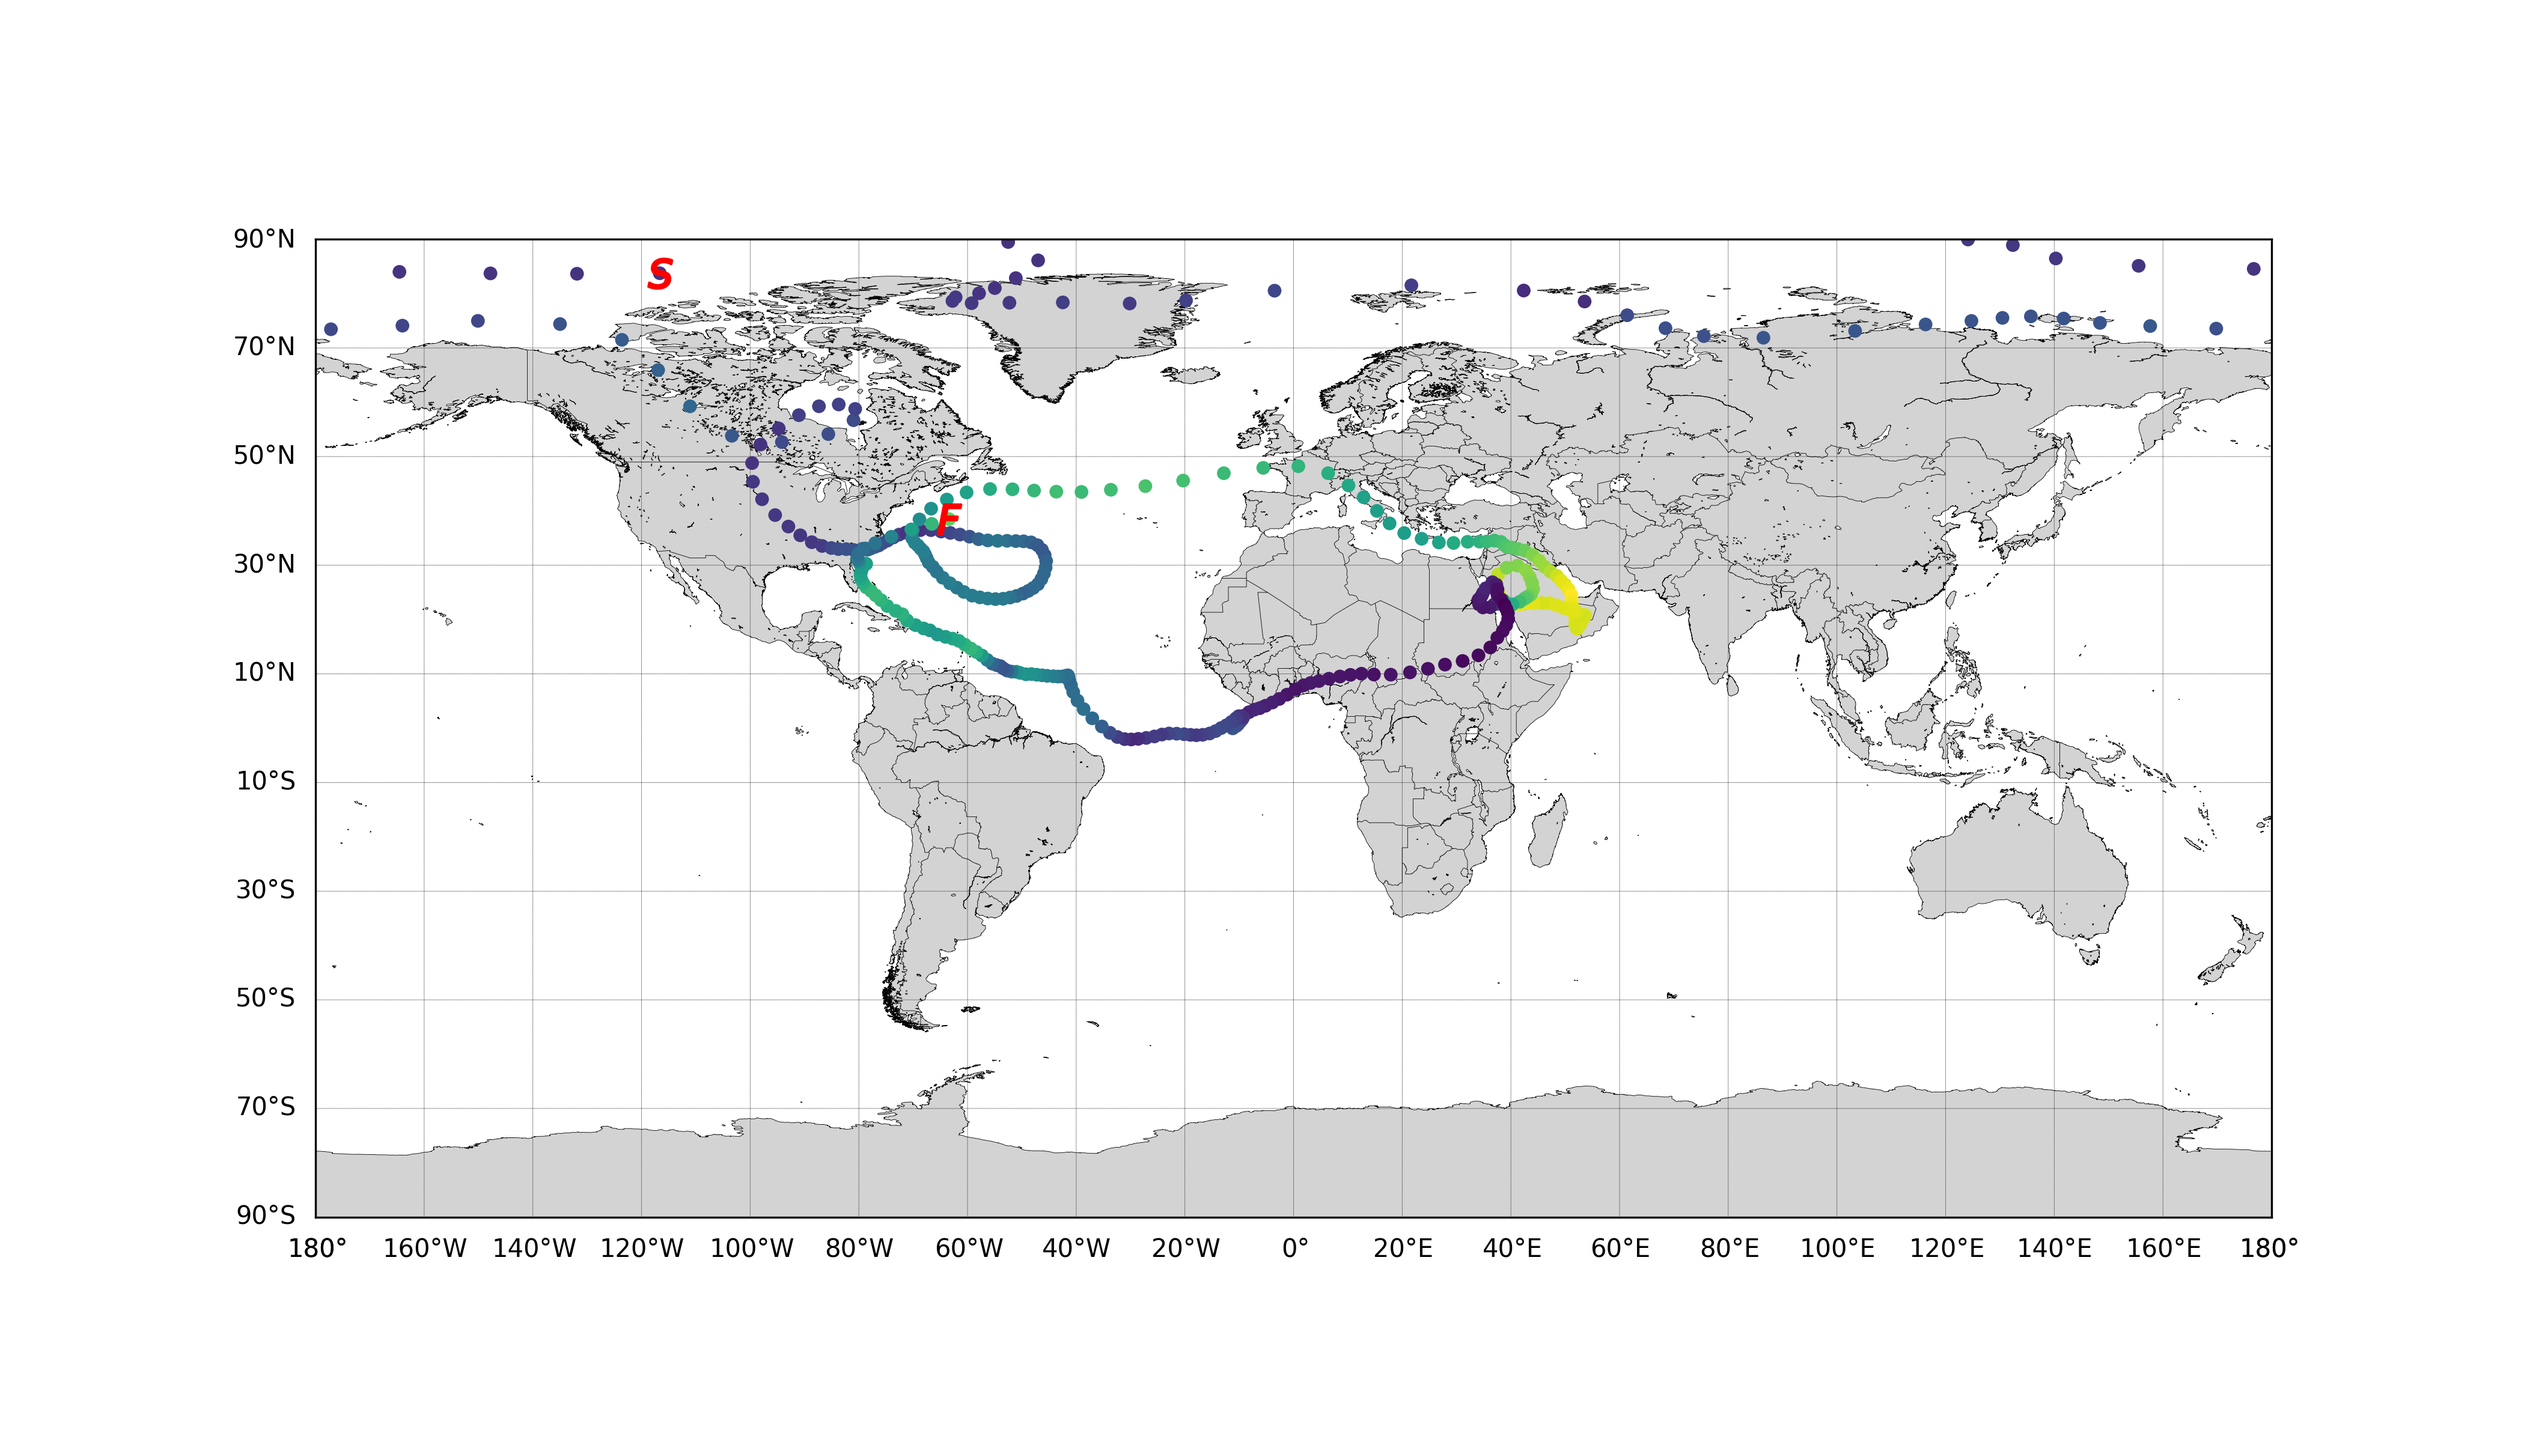
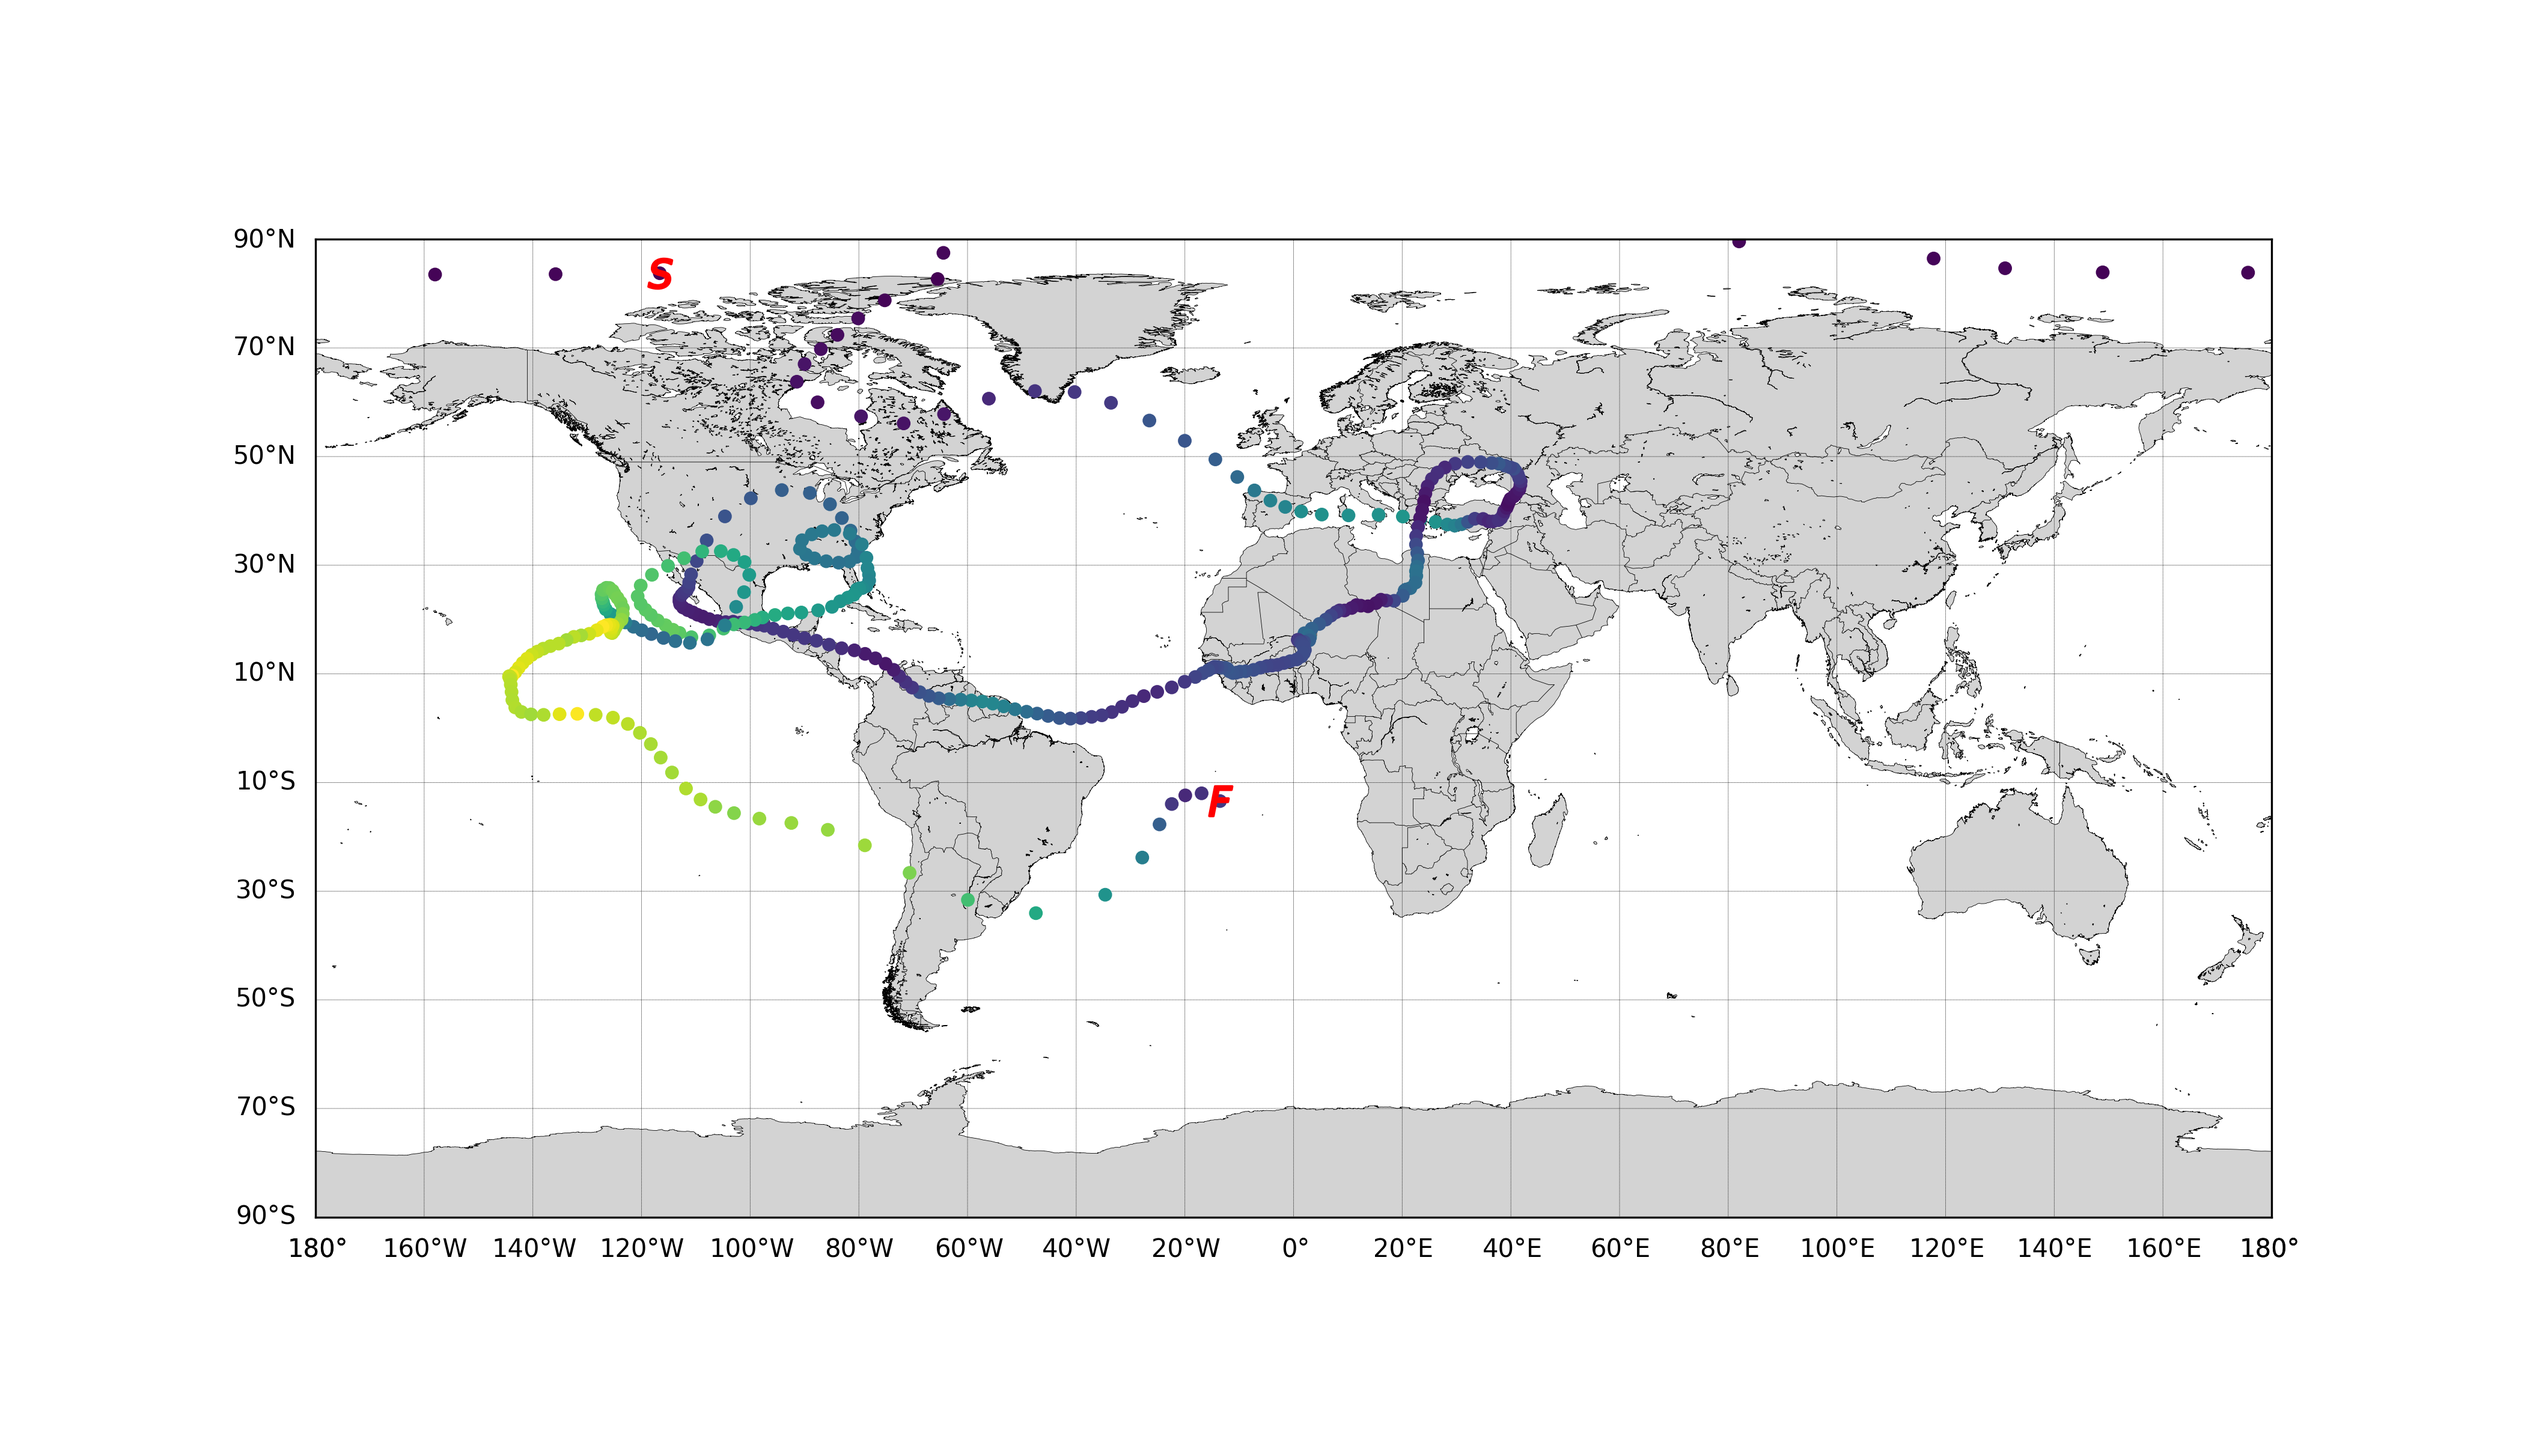
gg

diff --git a/Group1 -Seas_Alt_Transport/TIJN_MO/CODE_TIJN.py b/Group1 -Seas_Alt_Transport/TIJN_MO/CODE_TIJN.py
@@ -14,7 +14,7 @@ import matplotlib.ticker as mticker
 # =============================================================================
 
 #USER INPUT - File path
-f_string =r"C:\Users\twanv\OneDrive - Delft University of Technology\Bsc - 2\Q3\Project\Data\250_july\*" #'P:/AE2224I_GroupA4/250hPa/NAmerica/201407/*' #Insert file path to input data, do not forget wildcard
+f_string =r"C:\Users\moheb\Desktop\Q3_Proj (Group Git)\*"#""C:\Users\twanv\OneDrive - Delft University of Technology\Bsc - 2\Q3\Project\Data\250_july\*" #'P:/AE2224I_GroupA4/250hPa/NAmerica/201407/*' #Insert file path to input data, do not forget wildcard
 
 #USER INPUT - Switches to determine which data types should be loaded
 attila_switch = True

diff --git a/Group1 -Seas_Alt_Transport/Group4_version_28Graphs.py b/Group1 -Seas_Alt_Transport/Group4_version_28Graphs.py
@@ -12,7 +12,7 @@ import matplotlib.colors #To create new colorbar
 # =============================================================================
 
 #USER INPUT - File path
-f_string =r"C:\Users\moheb\Desktop\DATA_PROJ_Q3\Summer\250hpa\*"#C:\Users\moheb\Desktop\Q3_Proj (Group Git)\*" #'P:/AE2224I_GroupA4/250hPa/NAmerica/201407/*' #Insert file path to input data, do not forget wildcard
+f_string =r"C:\Users\moheb\Desktop\DATA_PROJ_Q3\Summer\300hpa\*"#C:\Users\moheb\Desktop\Q3_Proj (Group Git)\*" #'P:/AE2224I_GroupA4/250hPa/NAmerica/201407/*' #Insert file path to input data, do not forget wildcard
 
 #USER INPUT - Switches to determine which data types should be loaded
 attila_switch = True
